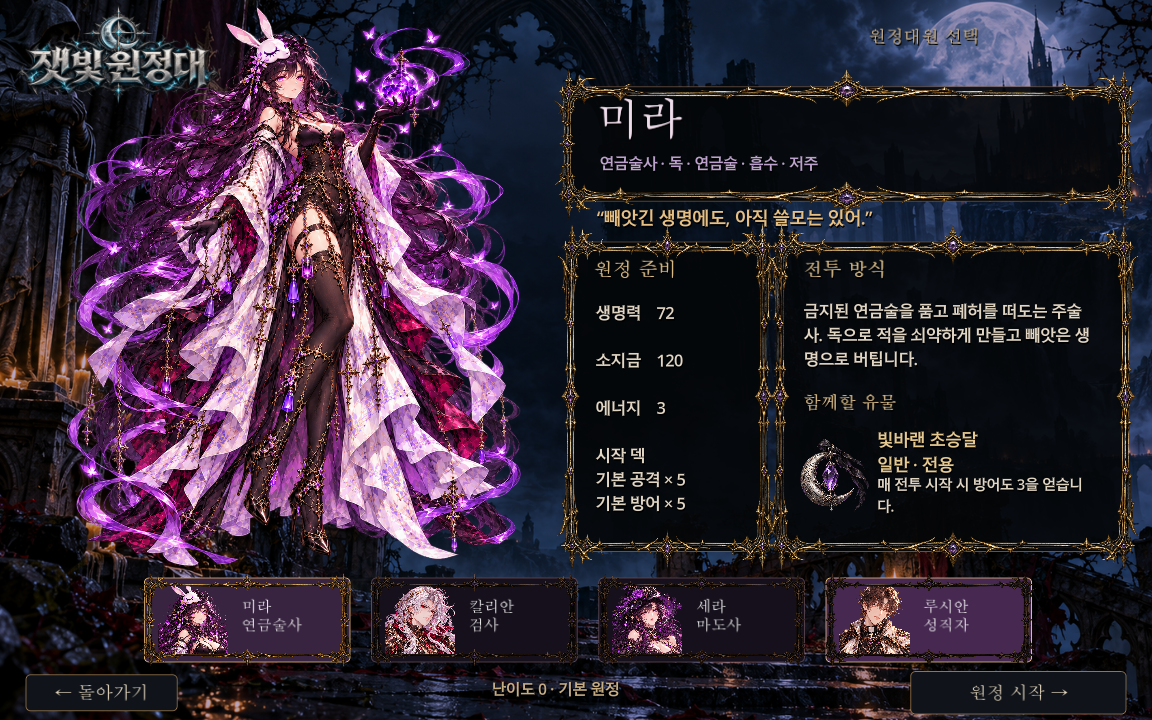
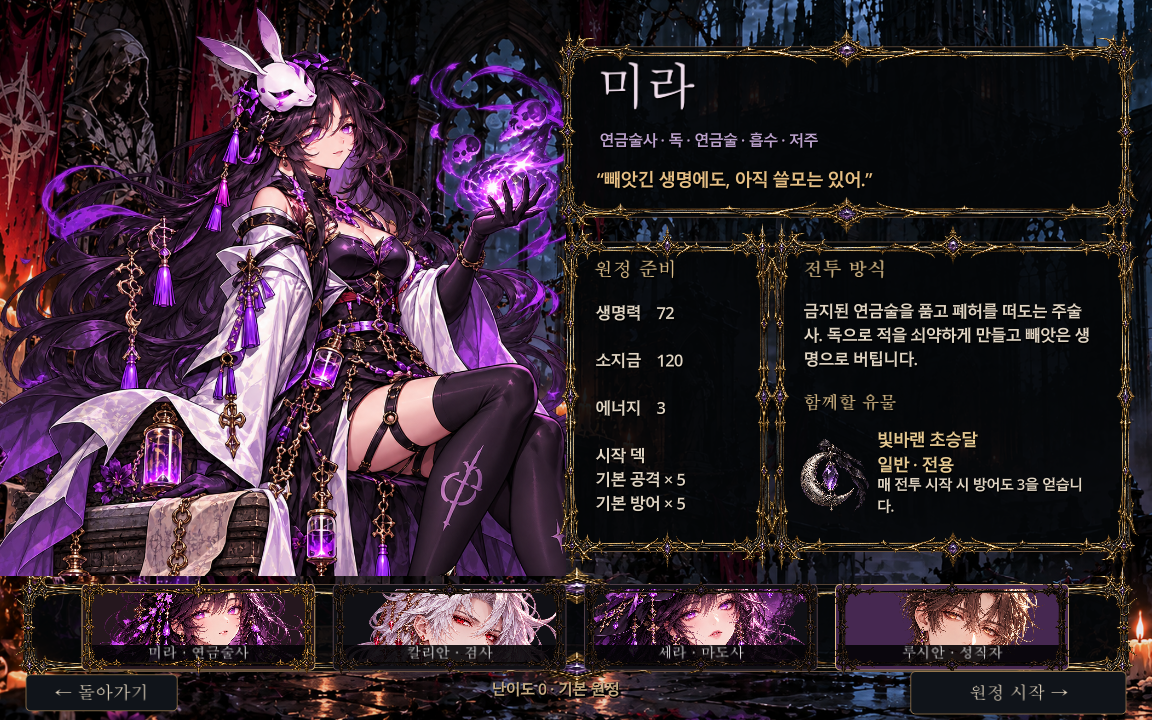
Repaint seated Mira and ruined selection backdrop; rebuild face roster

diff --git a/HANDOFF.md b/HANDOFF.md
@@ -1,5 +1,12 @@
 # 잿빛 원정대 — 집 PC 작업 인계
 
+## 2026-10-02 선택 미술 재제작 — 기존 전신/배경 교체
+- 사용자가 이전 결과를 거부한 핵심은 테두리가 아니라 일러스트 자세·배경·하단 얼굴 배치였다. 미라를 새로 제작한 앉은 자세로, 배경을 가까운 폐허 성당/붉은 배너/촛불/연금술 소품으로 교체. 제목 로고/우상단 선택 문구 제거, 대사는 이름 패널 안으로 이동. 하단은 얼굴을 크게 표시하고 하단 이름띠를 둔다.
+- 독립 자산 assets/characters/mira/illustration/mira_seated_selection_v2.png와 assets/backgrounds/selection_ruins_v2.png. character_assets.json의 selection_scene_art로 선택 화면만 연결하며 원래 전신/도감/SD는 보존. 원본 화면을 자르거나 한 장짜리 화면을 버튼 UI로 쓰지 않음. 독립 얼굴 초상화의 표시 영역만 UI에서 조정한다.
+- 내장 생성 프롬프트: reference character design, seated sideways on low stone sarcophagus, rabbit half mask, dark purple hair, black/purple dress and white sleeves, violet spell, independent transparent silhouette with chest/vials; 배경: no characters/UI/text, intimate ruined cathedral, crimson banners, candles, violet vials, dark right half. 소스 exec-7280691c-8e4b-419c-9ff6-e20888be1cee.png 및 exec-7d9b69ee-3a0d-4152-afeb-5e2f7696191f.png. 전체 생성물 시각 확인 후 적용.
+- Godot SELECTION_RELIC_QA 두 해상도, 네 캐릭터 클릭, 유물 지급·방어·초기화 PASS. 최신 docs/selection-relic-*.png. 나머지 캐릭터의 새 앉은 일러스트 및 시작 유물은 미완성, 기존 자산 유지.
+- 사용량 최신 '10%'는 이전 잔여량 정정 문맥상 **10% 남음/90% 사용**으로 이해해 알렸다. 과거70% 기준보다 우선. 일일 창은 제공되지 않으며5시간 기준. 시작66%, 검증 중81%. 요청 범위 마무리 후push하며 수치 소진을 위해 불필요한 작업을 하지 않는다.
+
 ## 사용량 기준 사용자 정정 — 2026-10-02
 - **70% 사용 / 30% 남음**에서 인수인계와 push. 이전 30% 사용 중단 기록은 잘못 이해한 것으로 폐기한다. 39% 확인 후 사용자 정정에 따라 선택 화면 미술 개선을 재개했다.
 

diff --git a/AGENTS.md b/AGENTS.md
@@ -1,6 +1,6 @@
 # 잿빛 원정대 - 프로젝트 제작 규칙
 
-- 사용량 중단 기준 정정(2026-10-02): 사용량 70%에 도달해 30%가 남았을 때 작업을 정리하고 인수인계/commit/push한다. 30% 사용에서 중단하는 것이 아니다. 도구에는 일일 창이 없어 현재 5시간 창 usedPercent를 기준으로 확인한다.
+- 사용량 최신 기준(2026-10-02): 사용자 후속 '10%'는 앞선 잔여량 정정 문맥에 따라 **10% 남음/90% 사용**으로 이해하고 알렸다. 이 시점에 작업 정리·인수인계/commit/push한다. 과거70% 사용/30% 남음 기준보다 우선. 도구에는 일일 창이 없어 현재5시간 창 usedPercent로 확인한다.
 
 - 최신 작업 순서: 미라 한 명의 전투·게임 흐름부터 완성하고 나머지 캐릭터는 이후 확장한다. 미라 타격/손패 조준/hover 현황은 docs/MIRA_HIT.md, docs/MIRA_BATTLE_INPUT.md. 기능이 완료되지 않은 ACT 시작 이벤트·전투 배경·효과음을 완료로 표시하지 않는다.
 
